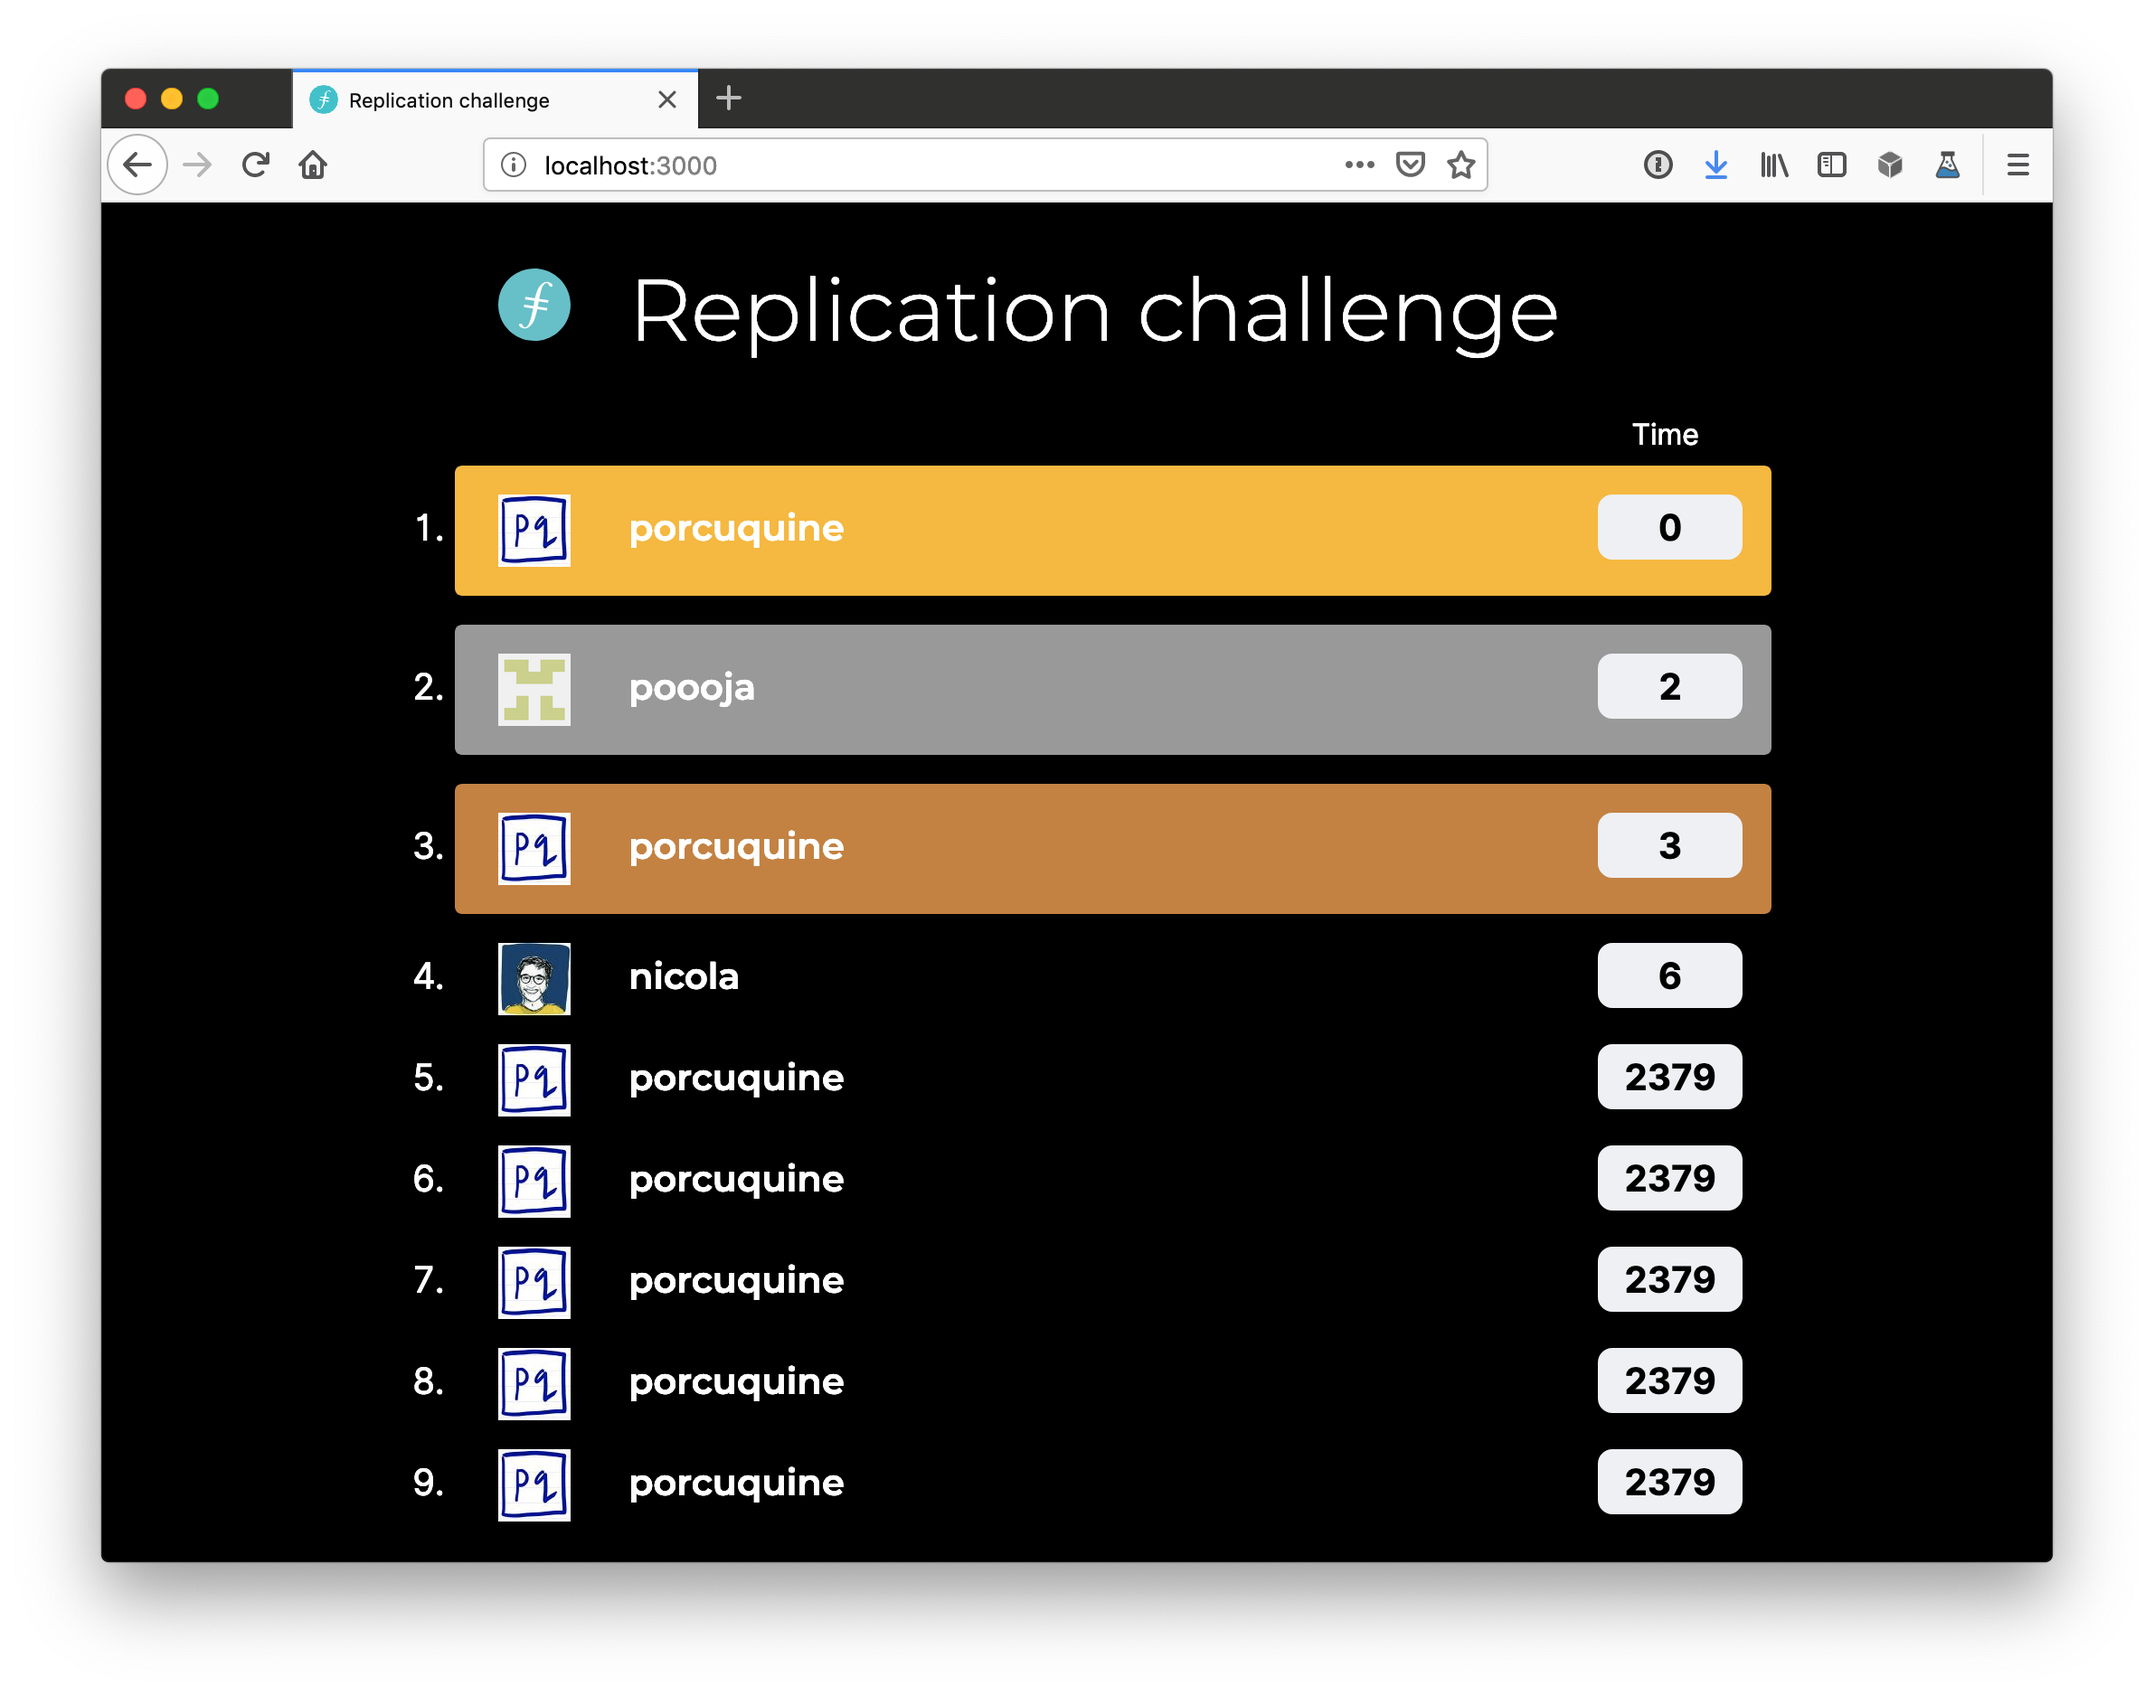
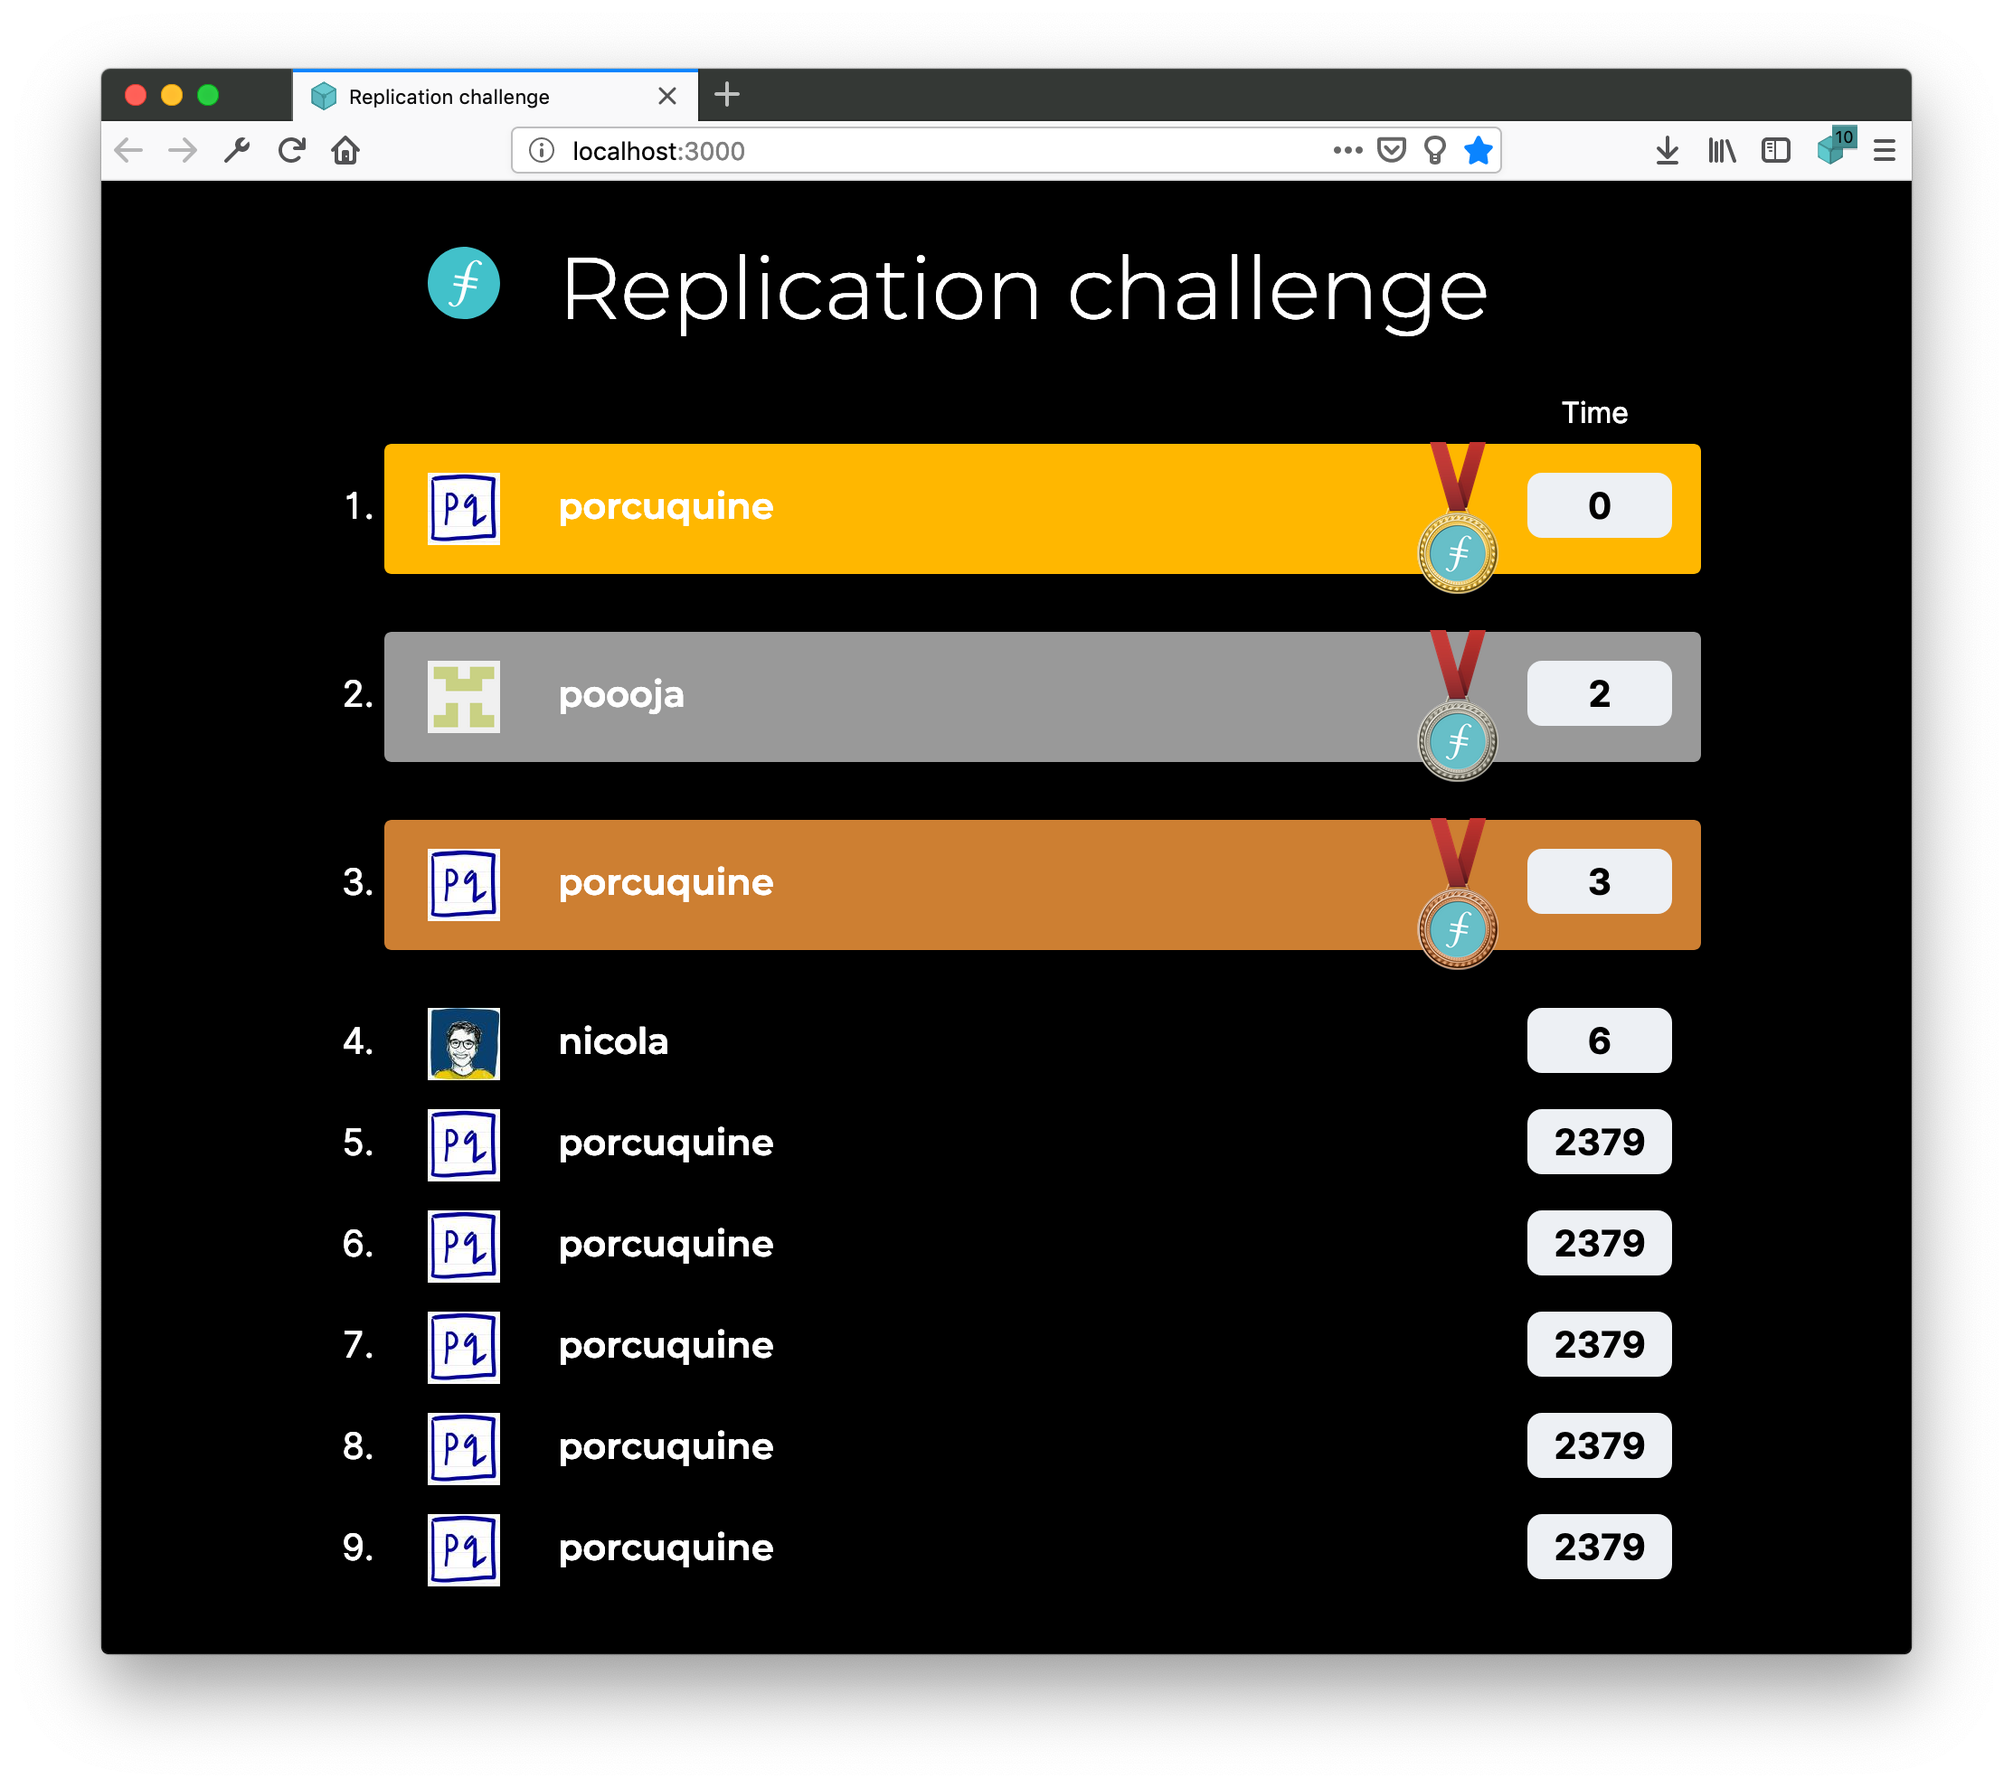
feat: medals!
License: MIT

Changed region(s): [[0.031, 0.0309, 0.9609, 0.9275]]

diff --git a/src/App.js b/src/App.js
@@ -1,6 +1,9 @@
 import React, { Component } from 'react';
 import logo from './filecoin-logo.svg';
 import data from './leaderboard.json'
+import gold from './gold.png'
+import silver from './silver.png'
+import bronze from './bronze.png'
 
 const Avatar = ({name, className = 'ml2 mr4 v-mid', size = 80}) => {
   return (
@@ -40,17 +43,20 @@ class App extends Component {
           </div>
           <ol className='ma0 lh-copy mw7 center db' style={{listStyleType: 'decimal'}}>
           {data.slice(0,1).map(({prover, repl_time}) => (
-            <li className='tl f4 pa3 bg-gold white br2'>
+            <li className='tl f4 pa3 bg-gold white br2 relative'>
+              <img src={gold} alt='winner' className='absolute' style={{ width: 45, top: -1, right: '7rem' }}/>
               <Entry name={prover} time={repl_time} />
             </li>
           ))}
           {data.slice(1,2).map(({prover, repl_time}) => (
-            <li className='tl f4 mt3 pa3 bg-silver white br2'>
+            <li className='tl f4 mt4 pa3 bg-silver white br2 relative'>
+              <img src={silver} alt='second' className='absolute' style={{ width: 45, top: -1, right: '7rem' }} />
               <Entry name={prover} time={repl_time} />
             </li>
           ))}
           {data.slice(2,3).map(({prover, repl_time}) => (
-            <li className='tl f4 mt3 pa3 br2 white' style={{background: '#cd7f32'}}>
+            <li className='tl f4 mt4 mb4 pa3 br2 white relative' style={{background: '#cd7f32'}}>
+              <img src={bronze} alt='third' className='absolute' style={{ width: 45, top: -1, right: '7rem' }} />
               <Entry name={prover} time={repl_time} />
             </li>
           ))}
